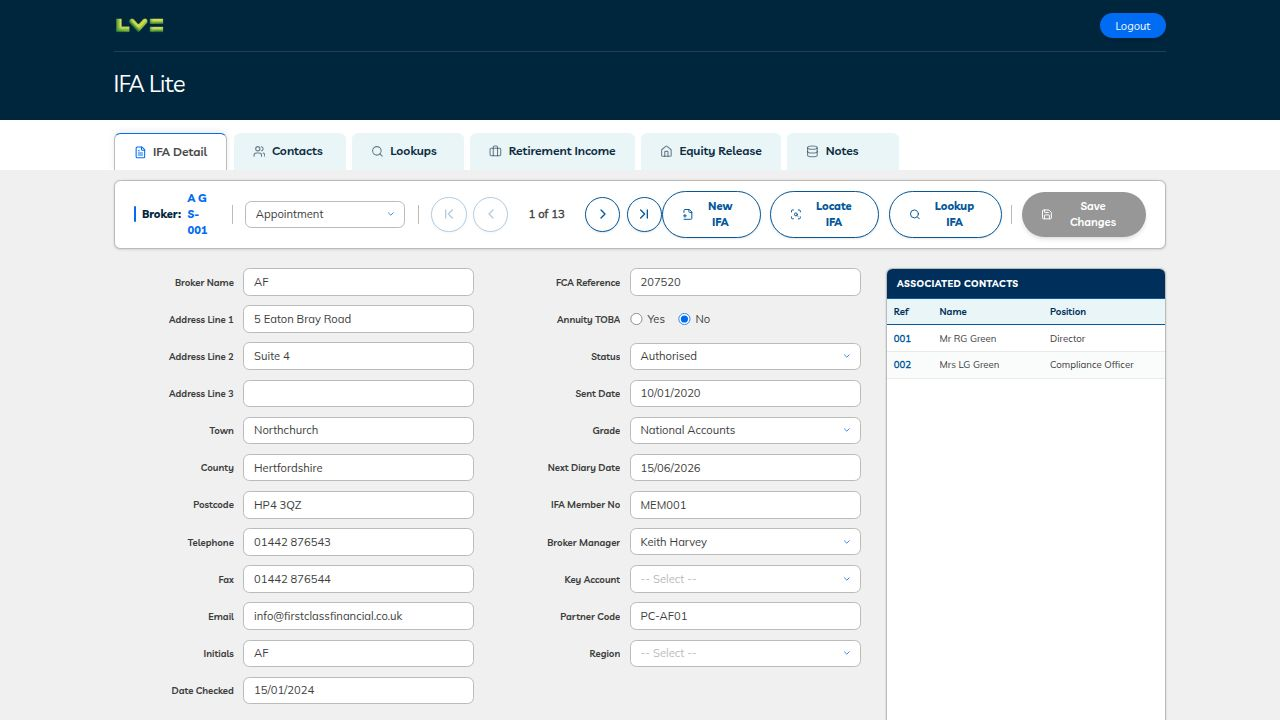
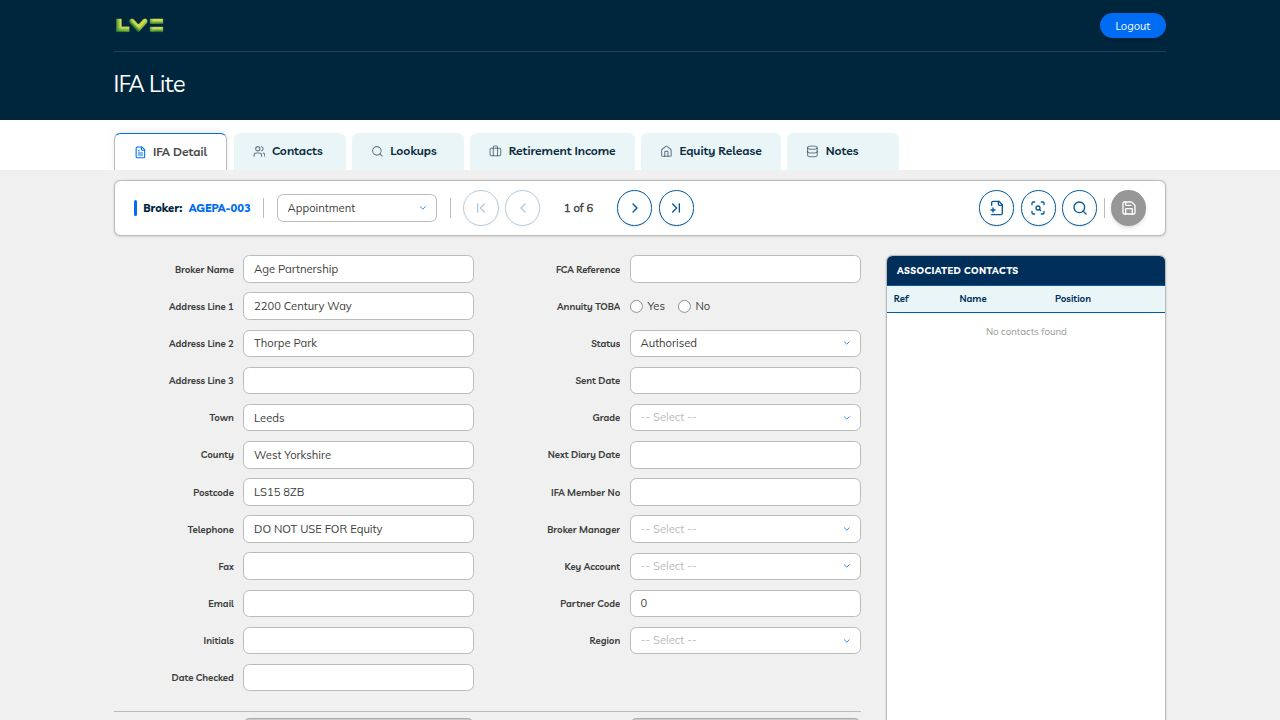
Update IFA data to match screenshots
Replace existing IFA seed data with exact information from provided screenshots, ensuring no extraneous data is present.

Replit-Commit-Author: Agent
Replit-Commit-Session-Id: 65fbba46-0054-4dc4-92a3-907bec147720
Replit-Commit-Checkpoint-Type: full_checkpoint
Replit-Commit-Event-Id: 14d01870-f232-4c98-bdaa-befe3ee549bf
Replit-Commit-Screenshot-Url: https://storage.googleapis.com/screenshot-production-us-central1/3a62a30d-589e-4531-800a-0fcd8f4ddc04/65fbba46-0054-4dc4-92a3-907bec147720/KQgqKKQ
Replit-Helium-Checkpoint-Created: true

diff --git a/artifacts/ifa-lite/src/data/seed-data.ts b/artifacts/ifa-lite/src/data/seed-data.ts
@@ -105,114 +105,148 @@ export interface ListBrokersParams {
 }
 
 const brokerData = [
-  { ifaRef: "A G S-001", brokerNo: "BRK001", fimbraNo: "FIM001", brokerName: "AF", tradingName: "First Class Financial", addressLine1: "5 Eaton Bray Road", addressLine2: "Suite 4", town: "Northchurch", county: "Hertfordshire", postcode: "HP4 3QZ", telephone: "01442 876543", fax: "01442 876544", email: "info@firstclassfinancial.co.uk", initials: "AF", dateChecked: "15/01/2024", status: "Authorised", fcaReference: "207520", annuityToba: false, sentDate: "10/01/2020", grade: "National Accounts", nextDiaryDate: "15/06/2026", ifaMemberNo: "MEM001", brokerManager: "Keith Harvey", keyAccount: "Yes", partnerCode: "PC-AF01", region: "South", createdBy: "ADMIN", createdDate: "15/02/2002 15:00", amendedBy: "JSMITH", amendedDate: "20/03/2025 10:30" },
-  { ifaRef: "A J B-001", brokerNo: "BRK002", fimbraNo: "FIM002", brokerName: "Aldton Park Financial Services Ltd", tradingName: "Aldton Park FS", addressLine1: "93 Aldton Park", addressLine2: "Business Centre", town: "Newton Aycliffe", county: "County Durham", postcode: "DL5 7DW", telephone: "01325 310234", fax: "01325 310235", email: "admin@aldtonparkfs.co.uk", initials: "AP", dateChecked: "20/02/2024", status: "Authorised", fcaReference: "305421", annuityToba: true, sentDate: "05/03/2019", grade: "Regional", nextDiaryDate: "01/07/2026", ifaMemberNo: "MEM002", brokerManager: "Sarah Collins", keyAccount: "No", partnerCode: "PC-AJ01", region: "North", createdBy: "ADMIN", createdDate: "20/03/2003 10:30", amendedBy: "SCOLLINS", amendedDate: "15/01/2025 14:00" },
-  { ifaRef: "A ONE-001", brokerNo: "BRK003", fimbraNo: "FIM003", brokerName: "a1 Financial Services", tradingName: "A1 Finance", addressLine1: "30 High Street", town: "Wethersfield", county: "Essex", postcode: "CM7 4BS", telephone: "01371 850234", email: "contact@a1finance.co.uk", initials: "A1", dateChecked: "01/12/2023", status: "Cancelled", fcaReference: "401234", grade: "Standard", brokerManager: "Keith Harvey", region: "East", createdBy: "ADMIN", createdDate: "05/06/2004 14:15", amendedBy: "KHARVEY", amendedDate: "10/11/2024 09:00" },
-  { ifaRef: "A T C-001", brokerNo: "BRK004", fimbraNo: "FIM004", brokerName: "A T C Financial Management", tradingName: "ATC FM", addressLine1: "Solway House Business Park", addressLine2: "Unit 12", town: "Kingstown", county: "Cumbria", postcode: "CA3 0HA", telephone: "01228 670345", fax: "01228 670346", email: "enquiries@atcfm.co.uk", initials: "AT", dateChecked: "05/03/2024", status: "Authorised", fcaReference: "312567", annuityToba: true, sentDate: "15/09/2018", grade: "National Accounts", nextDiaryDate: "20/08/2026", ifaMemberNo: "MEM004", brokerManager: "David Thompson", keyAccount: "Yes", partnerCode: "PC-AT01", region: "North", createdBy: "ADMIN", createdDate: "12/09/2001 09:45", amendedBy: "DTHOMPSON", amendedDate: "22/02/2025 11:30" },
-  { ifaRef: "A&JIN-001", brokerNo: "BRK005", fimbraNo: "FIM005", brokerName: "A & J Mortgages Ltd", tradingName: "A&J Mortgages", addressLine1: "1 Qarrenlton Grove", town: "Johnstone", county: "Renfrewshire", postcode: "PA5 8HG", telephone: "01505 321456", email: "info@ajmortgages.co.uk", initials: "AJ", status: "Authorised", fcaReference: "456789", annuityToba: false, grade: "Regional", brokerManager: "Sarah Collins", partnerCode: "PC-AJ02", region: "Scotland", createdBy: "ADMIN", createdDate: "01/11/2005 11:20" },
-  { ifaRef: "A&JPE-001", brokerNo: "BRK006", fimbraNo: "FIM006", brokerName: "A & J Perry Ltd", tradingName: "Perry Financial", addressLine1: "Cardale", addressLine2: "Office 3B", town: "Burnley", county: "Lancashire", postcode: "BB11 3RQ", telephone: "01282 432567", fax: "01282 432568", email: "admin@perryfinancial.co.uk", initials: "PF", dateChecked: "10/04/2024", status: "Authorised", fcaReference: "523456", annuityToba: true, sentDate: "20/04/2020", grade: "Standard", nextDiaryDate: "30/09/2026", ifaMemberNo: "MEM006", brokerManager: "Keith Harvey", keyAccount: "No", partnerCode: "PC-PF01", region: "North West", createdBy: "ADMIN", createdDate: "18/04/2003 16:00", amendedBy: "KHARVEY", amendedDate: "05/03/2025 16:45" },
-  { ifaRef: "A.R.D-001", brokerNo: "BRK007", fimbraNo: "FIM007", brokerName: "A.R.D Consultancy Ltd", tradingName: "ARD Consulting", addressLine1: "9 Melville Street", town: "Edinburgh", county: "Midlothian", postcode: "EH3 7PE", telephone: "0131 226 7890", fax: "0131 226 7891", email: "hello@ardconsulting.co.uk", initials: "AR", dateChecked: "22/05/2024", status: "Authorised", fcaReference: "634567", annuityToba: false, sentDate: "01/08/2017", grade: "National Accounts", nextDiaryDate: "15/10/2026", ifaMemberNo: "MEM007", brokerManager: "David Thompson", keyAccount: "Yes", partnerCode: "PC-AR01", region: "Scotland", createdBy: "ADMIN", createdDate: "22/07/2002 13:30", amendedBy: "DTHOMPSON", amendedDate: "18/04/2025 09:15" },
-  { ifaRef: "A1FIN-002", brokerNo: "BRK008", fimbraNo: "FIM008", brokerName: "A1 Financial Services Online Ltd", tradingName: "A1 FSO", addressLine1: "7-8 The Shrubberies", addressLine2: "Ground Floor", town: "George Street", county: "Gloucestershire", postcode: "GL1 1PQ", telephone: "01452 523456", email: "support@a1fso.co.uk", initials: "A1", dateChecked: "30/06/2024", status: "Authorised", fcaReference: "745678", annuityToba: true, sentDate: "12/02/2021", grade: "Regional", nextDiaryDate: "01/12/2026", ifaMemberNo: "MEM008", brokerManager: "Sarah Collins", partnerCode: "PC-A1F2", region: "South West", createdBy: "ADMIN", createdDate: "30/01/2006 10:00", amendedBy: "SCOLLINS", amendedDate: "01/02/2025 13:00" },
-  { ifaRef: "AAFFI-001", brokerNo: "BRK009", fimbraNo: "FIM009", brokerName: "AAF Financial Ltd", tradingName: "AAF Finance", addressLine1: "82 Broadpark Road", town: "Liverpool", county: "Merseyside", postcode: "L14 9QA", telephone: "0151 228 9012", fax: "0151 228 9013", email: "info@aaffinance.co.uk", initials: "AA", status: "Authorised", fcaReference: "856789", grade: "Standard", brokerManager: "Keith Harvey", region: "North West", createdBy: "ADMIN", createdDate: "14/05/2004 15:45" },
-  { ifaRef: "AAMOR-001", brokerNo: "BRK010", fimbraNo: "FIM010", brokerName: "AA Mortgage Gateway Ltd", tradingName: "AA Mortgage Gateway", addressLine1: "84 Kensington High Street", addressLine2: "3rd Floor", town: "London", county: "Greater London", postcode: "W8 4PT", telephone: "020 7937 8901", fax: "020 7937 8902", email: "info@aamortgage.co.uk", initials: "AM", dateChecked: "15/08/2024", status: "Authorised", fcaReference: "967890", annuityToba: true, sentDate: "03/08/2019", grade: "National Accounts", nextDiaryDate: "01/04/2026", ifaMemberNo: "MEM010", brokerManager: "David Thompson", keyAccount: "Yes", partnerCode: "PC-AM01", region: "London", createdBy: "ADMIN", createdDate: "03/08/2001 12:15", amendedBy: "DTHOMPSON", amendedDate: "10/03/2025 10:00" },
-  { ifaRef: "CLRKH-001", brokerNo: "BRK011", fimbraNo: "FIM011", brokerName: "The Clarkson Hill Group Plc.", tradingName: "Clarkson Hill", addressLine1: "61 Lincombe Road", addressLine2: "The Old Rectory", town: "Radstock", county: "Somerset", postcode: "BA3 3YJ", telephone: "01761 420773", fax: "01761 420774", email: "info@clarksonhill.co.uk", initials: "CH", dateChecked: "01/03/2024", status: "Cancelled", fcaReference: "207520", annuityToba: true, sentDate: "15/02/2018", grade: "National Accounts", nextDiaryDate: "01/05/2026", ifaMemberNo: "MEM011", brokerManager: "Keith Harvey", keyAccount: "Yes", partnerCode: "PC-CH01", region: "South West", createdBy: "ADMIN", createdDate: "15/02/2002 15:00", amendedBy: "ERIPORA", amendedDate: "13/07/2015 14:30" },
-  { ifaRef: "BRKWD-001", brokerNo: "BRK012", fimbraNo: "FIM012", brokerName: "Brookwood Financial Planning", tradingName: "Brookwood FP", addressLine1: "14 Clarence Parade", town: "Southsea", county: "Hampshire", postcode: "PO5 3NU", telephone: "023 9283 4567", email: "advice@brookwoodfp.co.uk", initials: "BW", dateChecked: "12/04/2024", status: "Authorised", fcaReference: "198765", annuityToba: false, sentDate: "20/06/2020", grade: "Regional", nextDiaryDate: "15/07/2026", ifaMemberNo: "MEM012", brokerManager: "Sarah Collins", keyAccount: "No", partnerCode: "PC-BW01", region: "South", createdBy: "ADMIN", createdDate: "08/11/2003 09:00", amendedBy: "SCOLLINS", amendedDate: "28/01/2025 15:30" },
-  { ifaRef: "HRTFN-001", brokerNo: "BRK013", fimbraNo: "FIM013", brokerName: "Hartfield & Associates", tradingName: "Hartfield Wealth", addressLine1: "25 Cathedral Close", addressLine2: "2nd Floor", town: "Exeter", county: "Devon", postcode: "EX1 1EZ", telephone: "01392 456789", fax: "01392 456790", email: "wealth@hartfield.co.uk", initials: "HA", dateChecked: "18/05/2024", status: "Authorised", fcaReference: "345612", annuityToba: true, sentDate: "10/10/2019", grade: "National Accounts", nextDiaryDate: "20/09/2026", ifaMemberNo: "MEM013", brokerManager: "David Thompson", keyAccount: "Yes", partnerCode: "PC-HA01", region: "South West", createdBy: "ADMIN", createdDate: "15/03/2002 11:45", amendedBy: "DTHOMPSON", amendedDate: "14/04/2025 08:30" },
+  {
+    ifaRef: "AGEPA-003", brokerNo: "", fimbraNo: "", brokerName: "Age Partnership",
+    building: "2200 Century Way", noStreet: "Thorpe Park", district: "", city: "Leeds", county: "West Yorkshire",
+    addressLine1: "2200 Century Way", addressLine2: "Thorpe Park", town: "Leeds",
+    postcode: "LS15 8ZB", telephone: "DO NOT USE FOR Equity", fax: "", email: "",
+    salutation: "", classCode: "",
+    createdDate: "14/11/2005 10:32:21", createdBy: "LOPCXT", amendedDate: "", amendedBy: "",
+    repkey: "", rsmNo: "20", nextIfaIllRef: "", sibReference: "425432",
+    sibAuthorisationDate: "30/11/2017", sibInitials: "NW", brokerPackSent: "Yes", brokerPackSentDate: "",
+    nextDiaryDate: "", area: "LS", keyAccount: "No", grade: "1", nextContactNo: "",
+    status: "Authorised", consultant: "274",
+    peverelBroker: "", paidByBacs: "Y", bankSortCode: "7714814", bankAccountNo: "24782346",
+    bankAccountName: "Age Partnership", bankRef: "LV=",
+    networkIfaReference: "", ifaCommission: "2.5", networkCommission: "0", network: "", memberNumber: "",
+    plaIfaCommission: "2", plaNetworkCommission: "0", ifaWhen: "", ifaPortfolio: "",
+    brokerNameUpper: "AGE PARTNERSHIP", expense: "", coCode: "STALW-001",
+    ltcCommission: "1", acareCommission: "1",
+    namId: "7", ilaCommission: "2", ilaExpense: "",
+    ifaIlaCommissionPct: "", ifaIlaExpensePct: "", networkIlaCommissionPct: "",
+    icfpCommission: "4", icfpExpense: "", networkIcfpCommissionPct: "0", partnerCode: "0",
+  },
+  {
+    ifaRef: "AGEPA-001", brokerNo: "", fimbraNo: "", brokerName: "Age Partnership",
+    building: "2200 Century Way", noStreet: "Thorpe Park", district: "", city: "Leeds", county: "West Yorkshire",
+    addressLine1: "2200 Century Way", addressLine2: "Thorpe Park", town: "Leeds",
+    postcode: "LS15 8ZB", telephone: "0113 265 8888", fax: "0113 232 1071", email: "WITH CASHBACK",
+    salutation: "", classCode: "",
+    createdDate: "14/11/2005 10:20:53", createdBy: "LOPCXT", amendedDate: "", amendedBy: "",
+    repkey: "", rsmNo: "20", nextIfaIllRef: "", sibReference: "425432",
+    sibAuthorisationDate: "30/11/2017", sibInitials: "NW", brokerPackSent: "Yes", brokerPackSentDate: "",
+    nextDiaryDate: "", area: "LS", keyAccount: "No", grade: "1", nextContactNo: "",
+    status: "Authorised", consultant: "274",
+    peverelBroker: "", paidByBacs: "Y", bankSortCode: "7714814", bankAccountNo: "24782346",
+    bankAccountName: "Age Partnership", bankRef: "LV=",
+    networkIfaReference: "", ifaCommission: "2.5", networkCommission: "0", network: "", memberNumber: "",
+    plaIfaCommission: "2", plaNetworkCommission: "0", ifaWhen: "", ifaPortfolio: "",
+    brokerNameUpper: "AGE PARTNERSHIP", expense: "", coCode: "STALW-001",
+    ltcCommission: "1", acareCommission: "1",
+    namId: "7", ilaCommission: "2", ilaExpense: "",
+    ifaIlaCommissionPct: "", ifaIlaExpensePct: "", networkIlaCommissionPct: "",
+    icfpCommission: "4", icfpExpense: "0", networkIcfpCommissionPct: "0", partnerCode: "0",
+  },
+  {
+    ifaRef: "AGEPA-004", brokerNo: "", fimbraNo: "", brokerName: "Age Partnership",
+    building: "2200 Century Way", noStreet: "Thorpe Park", district: "", city: "Leeds", county: "West Yorkshire",
+    addressLine1: "2200 Century Way", addressLine2: "Thorpe Park", town: "Leeds",
+    postcode: "LS15 8ZB", telephone: "0800 0810 811", fax: "", email: "",
+    salutation: "", classCode: "",
+    createdDate: "14/11/2005 10:33:50", createdBy: "LOPCXT", amendedDate: "", amendedBy: "",
+    repkey: "", rsmNo: "20", nextIfaIllRef: "", sibReference: "425432",
+    sibAuthorisationDate: "30/11/2017", sibInitials: "NW", brokerPackSent: "Yes", brokerPackSentDate: "",
+    nextDiaryDate: "", area: "LS", keyAccount: "No", grade: "1", nextContactNo: "",
+    status: "Authorised", consultant: "274",
+    peverelBroker: "", paidByBacs: "Y", bankSortCode: "7714814", bankAccountNo: "24782346",
+    bankAccountName: "Age Partnership", bankRef: "LV=",
+    networkIfaReference: "", ifaCommission: "2.5", networkCommission: "No", network: "No", memberNumber: "",
+    plaIfaCommission: "2", plaNetworkCommission: "", ifaWhen: "", ifaPortfolio: "",
+    brokerNameUpper: "AGE PARTNERSHIP", expense: "", coCode: "STALW-001",
+    ltcCommission: "1", acareCommission: "1",
+    namId: "7", ilaCommission: "2", ilaExpense: "",
+    ifaIlaCommissionPct: "", ifaIlaExpensePct: "", networkIlaCommissionPct: "2",
+    icfpCommission: "4", icfpExpense: "0", networkIcfpCommissionPct: "0", partnerCode: "0",
+  },
+  {
+    ifaRef: "AGEBE-001", brokerNo: "", fimbraNo: "", brokerName: "Age Partnership Ltd",
+    building: "2200 Century Way", noStreet: "Thorpe Park", district: "", city: "Leeds", county: "West Yorkshire",
+    addressLine1: "2200 Century Way", addressLine2: "Thorpe Park", town: "Leeds",
+    postcode: "LS15 8ZB", telephone: "0113 232 1070", fax: "", email: "",
+    salutation: "", classCode: "",
+    createdDate: "27/03/2014 10:59:18", createdBy: "LV17716", amendedDate: "", amendedBy: "",
+    repkey: "", rsmNo: "20", nextIfaIllRef: "", sibReference: "425432",
+    sibAuthorisationDate: "30/11/2017", sibInitials: "NW", brokerPackSent: "Yes", brokerPackSentDate: "",
+    nextDiaryDate: "", area: "LS", keyAccount: "No", grade: "", nextContactNo: "",
+    status: "Authorised", consultant: "-150",
+    peverelBroker: "", paidByBacs: "Y", bankSortCode: "7714814", bankAccountNo: "24782346",
+    bankAccountName: "Age Partnership Lt", bankRef: "LV=",
+    networkIfaReference: "", ifaCommission: "1", networkCommission: "0", network: "", memberNumber: "",
+    plaIfaCommission: "2", plaNetworkCommission: "0", ifaWhen: "", ifaPortfolio: "",
+    brokerNameUpper: "AGE PARTNERSHIP LTD", expense: "", coCode: "STALW-001",
+    ltcCommission: "1", acareCommission: "1",
+    namId: "", ilaCommission: "2", ilaExpense: "",
+    ifaIlaCommissionPct: "", ifaIlaExpensePct: "", networkIlaCommissionPct: "",
+    icfpCommission: "4", icfpExpense: "0", networkIcfpCommissionPct: "0", partnerCode: "0",
+  },
+  {
+    ifaRef: "AGEPA-002", brokerNo: "", fimbraNo: "", brokerName: "Age Partnership Wealth Management Limited",
+    building: "2200 Century Way", noStreet: "Thorpe Park", district: "", city: "Leeds", county: "West Yorkshire",
+    addressLine1: "2200 Century Way", addressLine2: "Thorpe Park", town: "Leeds",
+    postcode: "LS15 8ZB", telephone: "0844 893 6554", fax: "", email: "",
+    salutation: "", classCode: "",
+    createdDate: "01/09/2015 11:03:03", createdBy: "LV24283", amendedDate: "", amendedBy: "",
+    repkey: "", rsmNo: "20", nextIfaIllRef: "", sibReference: "670493",
+    sibAuthorisationDate: "01/11/2017", sibInitials: "CG", brokerPackSent: "Yes", brokerPackSentDate: "",
+    nextDiaryDate: "", area: "LS", keyAccount: "No", grade: "", nextContactNo: "",
+    status: "Authorised", consultant: "-150",
+    peverelBroker: "", paidByBacs: "Y", bankSortCode: "7714814", bankAccountNo: "24782346",
+    bankAccountName: "Age Partnership We", bankRef: "LV=",
+    networkIfaReference: "", ifaCommission: "", networkCommission: "", network: "", memberNumber: "",
+    plaIfaCommission: "2", plaNetworkCommission: "0", ifaWhen: "", ifaPortfolio: "",
+    brokerNameUpper: "AGE PARTNERSHIP WEALTH MANAGEMENT LIMITED", expense: "", coCode: "STALW-001",
+    ltcCommission: "1", acareCommission: "1",
+    namId: "", ilaCommission: "2", ilaExpense: "",
+    ifaIlaCommissionPct: "", ifaIlaExpensePct: "", networkIlaCommissionPct: "",
+    icfpCommission: "4", icfpExpense: "0", networkIcfpCommissionPct: "0", partnerCode: "0",
+  },
+  {
+    ifaRef: "AGENT-001", brokerNo: "", fimbraNo: "", brokerName: "Agentis Fin & Mortgage Sol",
+    building: "Ground Floor", noStreet: "40 Thorpe Wood", district: "", city: "Peterborough", county: "",
+    addressLine1: "Ground Floor", addressLine2: "40 Thorpe Wood", town: "Peterborough",
+    postcode: "PE3 6SR", telephone: "07909 647070", fax: "", email: "frances@agentisfinancial.co.uk",
+    salutation: "", classCode: "",
+    createdDate: "15/07/2022 08:58:45", createdBy: "LV31066", amendedDate: "", amendedBy: "",
+    repkey: "", rsmNo: "5", nextIfaIllRef: "", sibReference: "631659",
+    sibAuthorisationDate: "15/07/2022", sibInitials: "LD", brokerPackSent: "No", brokerPackSentDate: "",
+    nextDiaryDate: "", area: "PE", keyAccount: "No", grade: "", nextContactNo: "",
+    status: "Authorised", consultant: "-150",
+    peverelBroker: "", paidByBacs: "N", bankSortCode: "", bankAccountNo: "",
+    bankAccountName: "", bankRef: "STONE-022",
+    networkIfaReference: "", ifaCommission: "1", networkCommission: "0", network: "", memberNumber: "",
+    plaIfaCommission: "2", plaNetworkCommission: "0", ifaWhen: "", ifaPortfolio: "",
+    brokerNameUpper: "AGENTIS FIN & MORTGAGE SOL", expense: "", coCode: "STALW-001",
+    ltcCommission: "1", acareCommission: "1",
+    namId: "", ilaCommission: "2", ilaExpense: "",
+    ifaIlaCommissionPct: "", ifaIlaExpensePct: "", networkIlaCommissionPct: "",
+    icfpCommission: "4", icfpExpense: "0", networkIcfpCommissionPct: "0", partnerCode: "0",
+  },
 ];
 
 export const initialBrokers: Broker[] = brokerData.map((b, i) => ({ ...b, id: i + 1 }) as Broker);
 
-const contactRaw = [
-  { brokerId: 1, reference: "001", title: "Mr", initials: "RG", forename: "Robert", surname: "Green", salutation: "Mr Green", position: "Director", addressLine1: "5 Eaton Bray Road", addressLine2: "Suite 4", homeTelephone: "01442 876000", mobileTelephone: "07700 900123", emailAddress: "r.green@firstclassfinancial.co.uk", paidByBacs: true, bankSortCode: "20-45-67", bankAccountNo: "12345678", bankAccountName: "First Class Financial Ltd", bankReference: "LV=FC", defaultAdviceType: "Independent", defaultRemunerationBasis: "Fee", defaultDistributionChannel: "Direct" },
-  { brokerId: 1, reference: "002", title: "Mrs", initials: "LG", forename: "Linda", surname: "Green", salutation: "Mrs Green", position: "Compliance Officer", addressLine1: "5 Eaton Bray Road", homeTelephone: "01442 876001", emailAddress: "l.green@firstclassfinancial.co.uk", paidByBacs: true, bankSortCode: "20-45-67", bankAccountNo: "12345678", bankAccountName: "First Class Financial Ltd", bankReference: "LV=FC" },
-  { brokerId: 2, reference: "001", title: "Mr", initials: "PW", forename: "Peter", surname: "Watson", salutation: "Mr Watson", position: "Managing Director", addressLine1: "93 Aldton Park", mobileTelephone: "07700 900456", emailAddress: "p.watson@aldtonparkfs.co.uk", paidByBacs: true, bankSortCode: "30-12-89", bankAccountNo: "87654321", bankAccountName: "Aldton Park FS", bankReference: "LV=AP", defaultAdviceType: "Restricted", defaultRemunerationBasis: "Commission" },
-  { brokerId: 2, reference: "002", title: "Ms", initials: "EJ", forename: "Emma", surname: "Jones", salutation: "Ms Jones", position: "Senior Adviser", addressLine1: "93 Aldton Park", mobileTelephone: "07700 900457", emailAddress: "e.jones@aldtonparkfs.co.uk", paidByBacs: false, useNetworkTerms: true, networkName: "Openwork", networkPostcode: "SN1 1GG", network: true },
-  { brokerId: 4, reference: "001", title: "Dr", initials: "MC", forename: "Michael", surname: "Chen", salutation: "Dr Chen", position: "Principal", addressLine1: "Solway House Business Park", addressLine2: "Unit 12", homeTelephone: "01228 670000", mobileTelephone: "07700 900789", emailAddress: "m.chen@atcfm.co.uk", paidByBacs: true, bankSortCode: "40-22-11", bankAccountNo: "55667788", bankAccountName: "ATC Financial Mgmt", bankReference: "LV=ATC", defaultAdviceType: "Independent", isPrincipal: true },
-  { brokerId: 5, reference: "001", title: "Mr", initials: "AJ", forename: "Andrew", surname: "Jameson", salutation: "Mr Jameson", position: "Director", addressLine1: "1 Qarrenlton Grove", mobileTelephone: "07700 900321", emailAddress: "a.jameson@ajmortgages.co.uk", paidByBacs: true, bankSortCode: "80-15-33", bankAccountNo: "44556677", bankAccountName: "A&J Mortgages Ltd", bankReference: "LV=AJM" },
-  { brokerId: 6, reference: "001", title: "Mr", initials: "JP", forename: "James", surname: "Perry", salutation: "Mr Perry", position: "Senior Partner", addressLine1: "Cardale", addressLine2: "Office 3B", homeTelephone: "01282 432000", mobileTelephone: "07700 900654", emailAddress: "j.perry@perryfinancial.co.uk", paidByBacs: true, bankSortCode: "01-07-44", bankAccountNo: "99887766", bankAccountName: "Perry Financial", bankReference: "LV=PF", defaultAdviceType: "Independent", defaultRemunerationBasis: "Fee" },
-  { brokerId: 6, reference: "002", title: "Mrs", initials: "KP", forename: "Karen", surname: "Perry", salutation: "Mrs Perry", position: "Administrator", homeTelephone: "01282 432001", emailAddress: "k.perry@perryfinancial.co.uk" },
-  { brokerId: 7, reference: "001", title: "Mr", initials: "AD", forename: "Alan", surname: "Drummond", salutation: "Mr Drummond", position: "Consultant", addressLine1: "9 Melville Street", homeTelephone: "0131 226 7800", mobileTelephone: "07700 900987", emailAddress: "a.drummond@ardconsulting.co.uk", paidByBacs: true, bankSortCode: "83-19-27", bankAccountNo: "11223344", bankAccountName: "ARD Consultancy Ltd", bankReference: "LV=ARD", defaultAdviceType: "Independent", tiedAgent: false, isPrincipal: true },
-  { brokerId: 10, reference: "001", title: "Ms", initials: "FT", forename: "Fiona", surname: "Taylor", salutation: "Ms Taylor", position: "Regional Manager", addressLine1: "84 Kensington High Street", addressLine2: "3rd Floor", homeTelephone: "020 7937 8800", mobileTelephone: "07700 900111", emailAddress: "f.taylor@aamortgage.co.uk", paidByBacs: true, bankSortCode: "15-80-44", bankAccountNo: "33445566", bankAccountName: "AA Mortgage Gateway", bankReference: "LV=AAM", defaultAdviceType: "Restricted", defaultDistributionChannel: "Network" },
-  { brokerId: 10, reference: "002", title: "Mr", initials: "BL", forename: "Benjamin", surname: "Lewis", salutation: "Mr Lewis", position: "Mortgage Adviser", mobileTelephone: "07700 900112", emailAddress: "b.lewis@aamortgage.co.uk", useNetworkTerms: true, networkName: "St. James's Place", networkPostcode: "SW1A 1AA", network: true },
-  { brokerId: 11, reference: "001", title: "Mr", initials: "JC", forename: "John", surname: "Clarkson", salutation: "Mr Clarkson", position: "Director", addressLine1: "61 Lincombe Road", homeTelephone: "01761 420000", mobileTelephone: "07700 900222", emailAddress: "j.clarkson@clarksonhill.co.uk", paidByBacs: true, bankSortCode: "77-48-14", bankAccountNo: "24782346", bankAccountName: "(SMT) Money Matter", bankReference: "LV=", defaultAdviceType: "Independent", defaultRemunerationBasis: "Fee", isPrincipal: true },
-  { brokerId: 11, reference: "002", title: "Mrs", initials: "SH", forename: "Sarah", surname: "Hill", salutation: "Mrs Hill", position: "Manager", addressLine1: "61 Lincombe Road", mobileTelephone: "07700 900223", emailAddress: "s.hill@clarksonhill.co.uk", paidByBacs: false },
-  { brokerId: 11, reference: "003", title: "Mr", initials: "TW", forename: "Thomas", surname: "White", salutation: "Mr White", position: "Financial Adviser", mobileTelephone: "07700 900224", emailAddress: "t.white@clarksonhill.co.uk", useNetworkTerms: true, networkName: "Quilter", networkPostcode: "SO15 1EF", network: true },
-  { brokerId: 12, reference: "001", title: "Mrs", initials: "HB", forename: "Helen", surname: "Brooks", salutation: "Mrs Brooks", position: "Director", addressLine1: "14 Clarence Parade", homeTelephone: "023 9283 4000", mobileTelephone: "07700 900333", emailAddress: "h.brooks@brookwoodfp.co.uk", paidByBacs: true, bankSortCode: "56-00-29", bankAccountNo: "78901234", bankAccountName: "Brookwood FP Ltd", bankReference: "LV=BWF", defaultAdviceType: "Independent" },
-  { brokerId: 13, reference: "001", title: "Mr", initials: "DH", forename: "David", surname: "Hartfield", salutation: "Mr Hartfield", position: "Senior Partner", addressLine1: "25 Cathedral Close", addressLine2: "2nd Floor", homeTelephone: "01392 456000", mobileTelephone: "07700 900444", emailAddress: "d.hartfield@hartfield.co.uk", paidByBacs: true, bankSortCode: "09-01-55", bankAccountNo: "56789012", bankAccountName: "Hartfield & Associates", bankReference: "LV=HFA", defaultAdviceType: "Independent", defaultRemunerationBasis: "Mixed", isPrincipal: true },
-  { brokerId: 13, reference: "002", title: "Miss", initials: "CR", forename: "Claire", surname: "Robertson", salutation: "Miss Robertson", position: "Paraplanner", mobileTelephone: "07700 900445", emailAddress: "c.robertson@hartfield.co.uk" },
-];
+const contactRaw: any[] = [];
 
 export const initialContacts: Contact[] = contactRaw.map((c, i) => ({ ...c, id: i + 1 }) as Contact);
 
-const notesRaw = [
-  { brokerId: 1, noteType: "SYS", description: "NPA - Commission updated by KHARVEY on 15/01/2025", oldValue: "1.2", newValue: "1.5", updatedBy: "KHARVEY", updatedDate: "15/01/2025 10:00" },
-  { brokerId: 1, noteType: "SYS", description: "NPA - Expense Discount updated by ADMIN on 10/06/2024", oldValue: "0", newValue: ".5", updatedBy: "ADMIN", updatedDate: "10/06/2024 14:30" },
-  { brokerId: 1, noteType: "MAN", description: "Annual review completed. All documentation up to date. Recommend maintaining current grade.", updatedBy: "KHARVEY", updatedDate: "20/03/2025 10:30" },
-  { brokerId: 2, noteType: "SYS", description: "NPA - Commission updated by SCOLLINS on 15/01/2025", oldValue: "0.8", newValue: "1.1", updatedBy: "SCOLLINS", updatedDate: "15/01/2025 14:00" },
-  { brokerId: 2, noteType: "MAN", description: "Spoke with Peter Watson regarding network terms. Awaiting signed TOBA documentation.", updatedBy: "SCOLLINS", updatedDate: "12/12/2024 09:15" },
-  { brokerId: 2, noteType: "SYS", description: "NPA - Expense Discount updated by ADMIN on 20/03/2023", oldValue: ".3", newValue: "0", updatedBy: "ADMIN", updatedDate: "20/03/2023 10:30" },
-  { brokerId: 3, noteType: "SYS", description: "NPA - Commission updated by KHARVEY on 10/11/2024", oldValue: "1.0", newValue: "0", updatedBy: "KHARVEY", updatedDate: "10/11/2024 09:00" },
-  { brokerId: 3, noteType: "MAN", description: "Broker ceased trading. FCA registration cancelled. All pending cases transferred to A1 Financial Services Online Ltd.", updatedBy: "KHARVEY", updatedDate: "10/11/2024 09:05" },
-  { brokerId: 4, noteType: "SYS", description: "NPA - Commission updated by DTHOMPSON on 22/02/2025", oldValue: "1.1", newValue: "1.4", updatedBy: "DTHOMPSON", updatedDate: "22/02/2025 11:30" },
-  { brokerId: 4, noteType: "PIPA", description: "PIPA - Expense Discount updated by ADMIN on 01/04/2024", oldValue: ".2", newValue: ".5", updatedBy: "ADMIN", updatedDate: "01/04/2024 15:00" },
-  { brokerId: 4, noteType: "MAN", description: "Upgraded to key account status following strong Q4 2024 performance. Volume threshold exceeded.", updatedBy: "DTHOMPSON", updatedDate: "22/02/2025 11:35" },
-  { brokerId: 5, noteType: "SYS", description: "NPA - Commission updated by SCOLLINS on 01/11/2005", oldValue: "0", newValue: "0.9", updatedBy: "SCOLLINS", updatedDate: "01/11/2005 11:20" },
-  { brokerId: 5, noteType: "SYS", description: "NPA - Expense Discount updated by SCOLLINS on 15/06/2024", oldValue: ".4", newValue: "0", updatedBy: "SCOLLINS", updatedDate: "15/06/2024 10:00" },
-  { brokerId: 5, noteType: "MAN", description: "Initial broker pack sent and signed TOBA received. Contact Andrew Jameson confirmed as primary point of contact.", updatedBy: "SCOLLINS", updatedDate: "15/11/2005 09:30" },
-  { brokerId: 6, noteType: "SYS", description: "NPA - Commission updated by KHARVEY on 05/03/2025", oldValue: "1.3", newValue: "1.5", updatedBy: "KHARVEY", updatedDate: "05/03/2025 16:45" },
-  { brokerId: 6, noteType: "MAN", description: "Commission rate increase agreed following broker review meeting on 01/03/2025.", updatedBy: "KHARVEY", updatedDate: "05/03/2025 16:50" },
-  { brokerId: 7, noteType: "SYS", description: "NPA - Commission updated by ADMIN on 01/01/2025", oldValue: "1.0", newValue: "1.3", updatedBy: "ADMIN", updatedDate: "01/01/2025 09:00" },
-  { brokerId: 7, noteType: "MAN", description: "Transferred to David Thompson's portfolio as part of Q1 2025 regional realignment.", updatedBy: "ADMIN", updatedDate: "01/01/2025 09:05" },
-  { brokerId: 8, noteType: "SYS", description: "NPA - Commission updated by SCOLLINS on 01/02/2025", oldValue: "0.7", newValue: "1.0", updatedBy: "SCOLLINS", updatedDate: "01/02/2025 13:00" },
-  { brokerId: 8, noteType: "SYS", description: "PIPA - Expense Discount updated by SCOLLINS on 15/09/2024", oldValue: "0", newValue: ".3", updatedBy: "SCOLLINS", updatedDate: "15/09/2024 11:00" },
-  { brokerId: 8, noteType: "MAN", description: "Online platform integration completed. Broker now submitting applications electronically. Training session held with support team.", updatedBy: "SCOLLINS", updatedDate: "20/02/2025 14:30" },
-  { brokerId: 9, noteType: "SYS", description: "NPA - Commission updated by ADMIN on 14/05/2004", oldValue: "0", newValue: "0.6", updatedBy: "ADMIN", updatedDate: "14/05/2004 15:45" },
-  { brokerId: 9, noteType: "SYS", description: "NPA - Expense Discount updated by ADMIN on 01/07/2023", oldValue: ".5", newValue: "0", updatedBy: "ADMIN", updatedDate: "01/07/2023 09:00" },
-  { brokerId: 9, noteType: "MAN", description: "Broker under-performing on volume targets. Review scheduled for Q2 2025 with potential downgrade if no improvement.", updatedBy: "KHARVEY", updatedDate: "15/01/2025 11:00" },
-  { brokerId: 10, noteType: "SYS", description: "NPA - Commission updated by DTHOMPSON on 10/03/2025", oldValue: "1.0", newValue: "1.5", updatedBy: "DTHOMPSON", updatedDate: "10/03/2025 10:00" },
-  { brokerId: 10, noteType: "SYS", description: "NPA - Equity Release - Flexible Broker Rate updated by DTHOMPSON on 10/03/2025", oldValue: "1", newValue: "1.25", updatedBy: "DTHOMPSON", updatedDate: "10/03/2025 10:05" },
-  { brokerId: 10, noteType: "MAN", description: "Major account review completed. Upgraded to National Accounts. New equity release terms agreed.", updatedBy: "DTHOMPSON", updatedDate: "10/03/2025 10:10" },
-  { brokerId: 11, noteType: "SYS", description: "NPA - Expense Discount updated by ERIPORA on 13/07/2015", oldValue: ".5", newValue: "0", updatedBy: "ERIPORA", updatedDate: "13/07/2015 14:30" },
-  { brokerId: 11, noteType: "SYS", description: "NPA - Expense Discount updated by ERIPORA on 25/02/2014", oldValue: "0", newValue: ".5", updatedBy: "ERIPORA", updatedDate: "25/02/2014 10:00" },
-  { brokerId: 11, noteType: "SYS", description: "PIPA - Expense Discount updated by ERIPORA on 17/06/2013", oldValue: ".4", newValue: "0", updatedBy: "ERIPORA", updatedDate: "17/06/2013 16:20" },
-  { brokerId: 11, noteType: "SYS", description: "NPA - Expense Discount updated by ERIPORA on 12/06/2013", oldValue: "-.7", newValue: "0", updatedBy: "ERIPORA", updatedDate: "12/06/2013 11:00" },
-  { brokerId: 11, noteType: "SYS", description: "NPA - Commission updated by KHARVEY on 01/06/2023", oldValue: "0.8", newValue: "0", updatedBy: "KHARVEY", updatedDate: "01/06/2023 09:30" },
-  { brokerId: 11, noteType: "MAN", description: "Broker group restructured. Trading ceased under this entity. Clients migrated to new company.", updatedBy: "KHARVEY", updatedDate: "01/06/2023 09:35" },
-  { brokerId: 12, noteType: "SYS", description: "NPA - Commission updated by SCOLLINS on 28/01/2025", oldValue: "0.9", newValue: "1.2", updatedBy: "SCOLLINS", updatedDate: "28/01/2025 15:30" },
-  { brokerId: 12, noteType: "MAN", description: "Quarterly review completed. Strong performance in retirement income products. Potential for upgrade to National Accounts next quarter.", updatedBy: "SCOLLINS", updatedDate: "28/01/2025 15:35" },
-  { brokerId: 13, noteType: "SYS", description: "NPA - Commission updated by DTHOMPSON on 14/04/2025", oldValue: "1.3", newValue: "1.6", updatedBy: "DTHOMPSON", updatedDate: "14/04/2025 08:30" },
-  { brokerId: 13, noteType: "SYS", description: "PIPA - Expense Discount updated by DTHOMPSON on 14/04/2025", oldValue: ".5", newValue: "0", updatedBy: "DTHOMPSON", updatedDate: "14/04/2025 08:35" },
-  { brokerId: 13, noteType: "MAN", description: "Exceptional growth in equity release and retirement income volumes. Promoted to key account with enhanced terms.", updatedBy: "DTHOMPSON", updatedDate: "14/04/2025 08:40" },
-];
+const notesRaw: any[] = [];
 
 export const initialNotes: Note[] = notesRaw.map((n, i) => ({ ...n, id: i + 1 }) as Note);
 
-const retirementRaw = [
-  { brokerId: 1, npaAdviserCharges: "0.5", npaAmount: "250", npaCommission: "1.3", npaExpenseDiscount: "0.2", npaMarketingAllowance: "0.1", pipaAdviserCharges: "0.4", pipaAmount: "200", pipaCommission: "1.4", pipaExpenseDiscount: "0.15", pipaMarketingAllowance: "0.1", prpAdviserCharges: "0.6", prpAmount: "300", prpCommission: "2", prpExpenseDiscount: "0.25", prpMarketingAllowance: "0.15" },
-  { brokerId: 2, npaCommission: "1.2", pipaCommission: "1.3", prpCommission: "1.8", npaExpenseDiscount: "0.1", pipaExpenseDiscount: "0.1" },
-  { brokerId: 4, npaAdviserCharges: "0.75", npaAmount: "500", npaCommission: "1.5", npaExpenseDiscount: "0.3", npaMarketingAllowance: "0.2", pipaAdviserCharges: "0.6", pipaAmount: "400", pipaCommission: "1.6", pipaExpenseDiscount: "0.2", pipaMarketingAllowance: "0.15", prpAdviserCharges: "0.8", prpAmount: "600", prpCommission: "2.2", prpExpenseDiscount: "0.35", prpMarketingAllowance: "0.2" },
-  { brokerId: 5, npaCommission: "1.3", pipaCommission: "1.4", prpCommission: "2" },
-  { brokerId: 6, npaAdviserCharges: "0.3", npaAmount: "150", npaCommission: "1.5", npaExpenseDiscount: "0", pipaCommission: "1.4", prpCommission: "1.9" },
-  { brokerId: 7, npaAdviserCharges: "0.6", npaAmount: "350", npaCommission: "1.4", npaExpenseDiscount: "0.15", npaMarketingAllowance: "0.1", pipaAdviserCharges: "0.5", pipaAmount: "300", pipaCommission: "1.5", pipaExpenseDiscount: "0.1", prpAdviserCharges: "0.7", prpAmount: "450", prpCommission: "2.1", prpExpenseDiscount: "0.2", prpMarketingAllowance: "0.15" },
-  { brokerId: 8, npaCommission: "1.2", pipaCommission: "1.3", prpCommission: "1.7" },
-  { brokerId: 10, npaAdviserCharges: "0.8", npaAmount: "600", npaCommission: "1.6", npaExpenseDiscount: "0.3", npaMarketingAllowance: "0.25", pipaAdviserCharges: "0.7", pipaAmount: "500", pipaCommission: "1.7", pipaExpenseDiscount: "0.25", pipaMarketingAllowance: "0.2", prpAdviserCharges: "0.9", prpAmount: "750", prpCommission: "2.5", prpExpenseDiscount: "0.4", prpMarketingAllowance: "0.3" },
-  { brokerId: 11, npaCommission: "1.3", pipaCommission: "1.4", prpCommission: "2" },
-  { brokerId: 12, npaAdviserCharges: "0.4", npaAmount: "200", npaCommission: "1.3", pipaAdviserCharges: "0.35", pipaAmount: "180", pipaCommission: "1.4", prpAdviserCharges: "0.5", prpAmount: "250", prpCommission: "2" },
-  { brokerId: 13, npaAdviserCharges: "0.7", npaAmount: "450", npaCommission: "1.5", npaExpenseDiscount: "0.2", npaMarketingAllowance: "0.15", pipaAdviserCharges: "0.6", pipaAmount: "400", pipaCommission: "1.6", pipaExpenseDiscount: "0.15", pipaMarketingAllowance: "0.1", prpAdviserCharges: "0.85", prpAmount: "550", prpCommission: "2.3", prpExpenseDiscount: "0.3", prpMarketingAllowance: "0.2" },
-];
+const retirementRaw: any[] = [];
 
 export const initialRetirementIncome: RetirementIncome[] = retirementRaw.map((r, i) => ({ ...r, id: i + 1 }) as RetirementIncome);
 
-const equityRaw = [
-  { brokerId: 1, mortgagePermissions: true, erlmToba: true, flexibleBrokerRate: "1.1", flexibleMinimumAmount: "500", flexibleNetworkRate: "0.3", flexibleTrailCommission: true, lumpSumBrokerRate: "1.2", lumpSumMinimumAmount: "750", lumpSumNetworkRate: "0.4", packagingFee: "295", applicationFee: "150", ltvPercent: "2.5" },
-  { brokerId: 2, mortgagePermissions: true, erlmToba: false, flexibleBrokerRate: "1", lumpSumBrokerRate: "1", packagingFee: "250", applicationFee: "125" },
-  { brokerId: 4, mortgagePermissions: true, erlmToba: true, flexibleBrokerRate: "1.25", flexibleMinimumAmount: "750", flexibleNetworkRate: "0.4", flexibleTrailCommission: true, lumpSumBrokerRate: "1.3", lumpSumMinimumAmount: "1000", lumpSumNetworkRate: "0.5", packagingFee: "350", applicationFee: "200", ltvPercent: "3", lumpSumPackagingFee: "375", lumpSumApplicationFee: "225", lumpSumLtvPercent: "2.8" },
-  { brokerId: 6, mortgagePermissions: true, erlmToba: true, flexibleBrokerRate: "1", lumpSumBrokerRate: "1.1", packagingFee: "275", applicationFee: "140" },
-  { brokerId: 7, mortgagePermissions: true, erlmToba: true, flexibleBrokerRate: "1.15", flexibleMinimumAmount: "600", flexibleNetworkRate: "0.35", flexibleTrailCommission: false, lumpSumBrokerRate: "1.2", lumpSumMinimumAmount: "800", lumpSumNetworkRate: "0.4", packagingFee: "310", applicationFee: "175", ltvPercent: "2.7" },
-  { brokerId: 10, mortgagePermissions: true, erlmToba: true, flexibleBrokerRate: "1.25", flexibleMinimumAmount: "800", flexibleNetworkRate: "0.45", flexibleTrailCommission: true, lumpSumBrokerRate: "1.35", lumpSumMinimumAmount: "1200", lumpSumNetworkRate: "0.55", packagingFee: "395", applicationFee: "250", ltvPercent: "3.5", lumpSumPackagingFee: "420", lumpSumApplicationFee: "275", lumpSumLtvPercent: "3.2" },
-  { brokerId: 11, mortgagePermissions: true, erlmToba: true, flexibleBrokerRate: "1", lumpSumBrokerRate: "1" },
-  { brokerId: 12, mortgagePermissions: true, erlmToba: false, flexibleBrokerRate: "1.05", flexibleMinimumAmount: "400", lumpSumBrokerRate: "1.1", lumpSumMinimumAmount: "600", packagingFee: "260", applicationFee: "130" },
-  { brokerId: 13, mortgagePermissions: true, erlmToba: true, flexibleBrokerRate: "1.2", flexibleMinimumAmount: "700", flexibleNetworkRate: "0.4", flexibleTrailCommission: true, lumpSumBrokerRate: "1.3", lumpSumMinimumAmount: "950", lumpSumNetworkRate: "0.5", packagingFee: "340", applicationFee: "190", ltvPercent: "3", lumpSumPackagingFee: "360", lumpSumApplicationFee: "210", lumpSumLtvPercent: "2.9" },
-];
+const equityRaw: any[] = [];
 
 export const initialEquityRelease: EquityRelease[] = equityRaw.map((e, i) => ({ ...e, id: i + 1 }) as EquityRelease);
